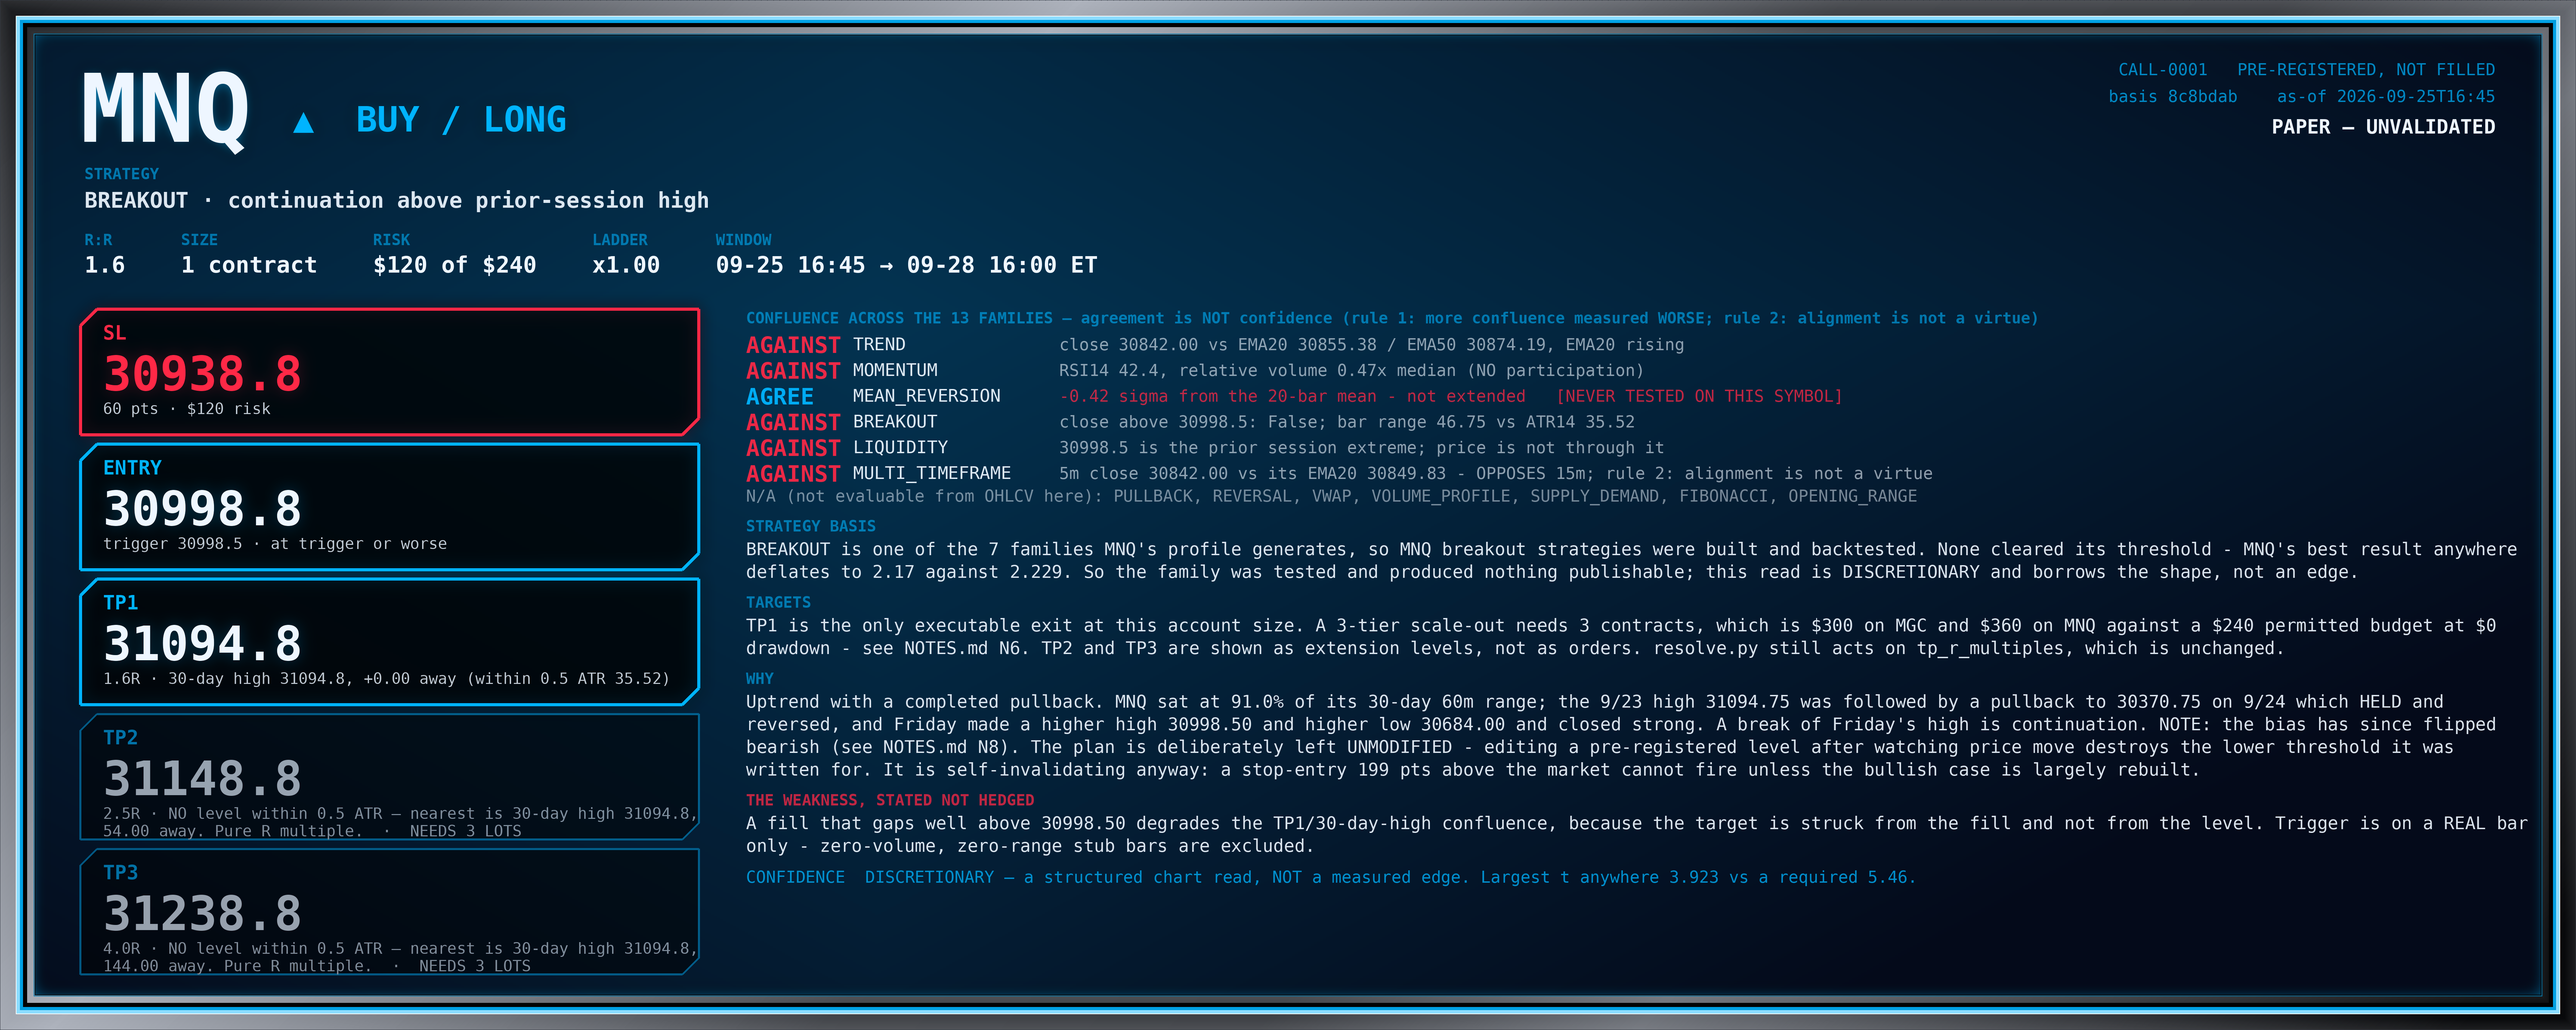
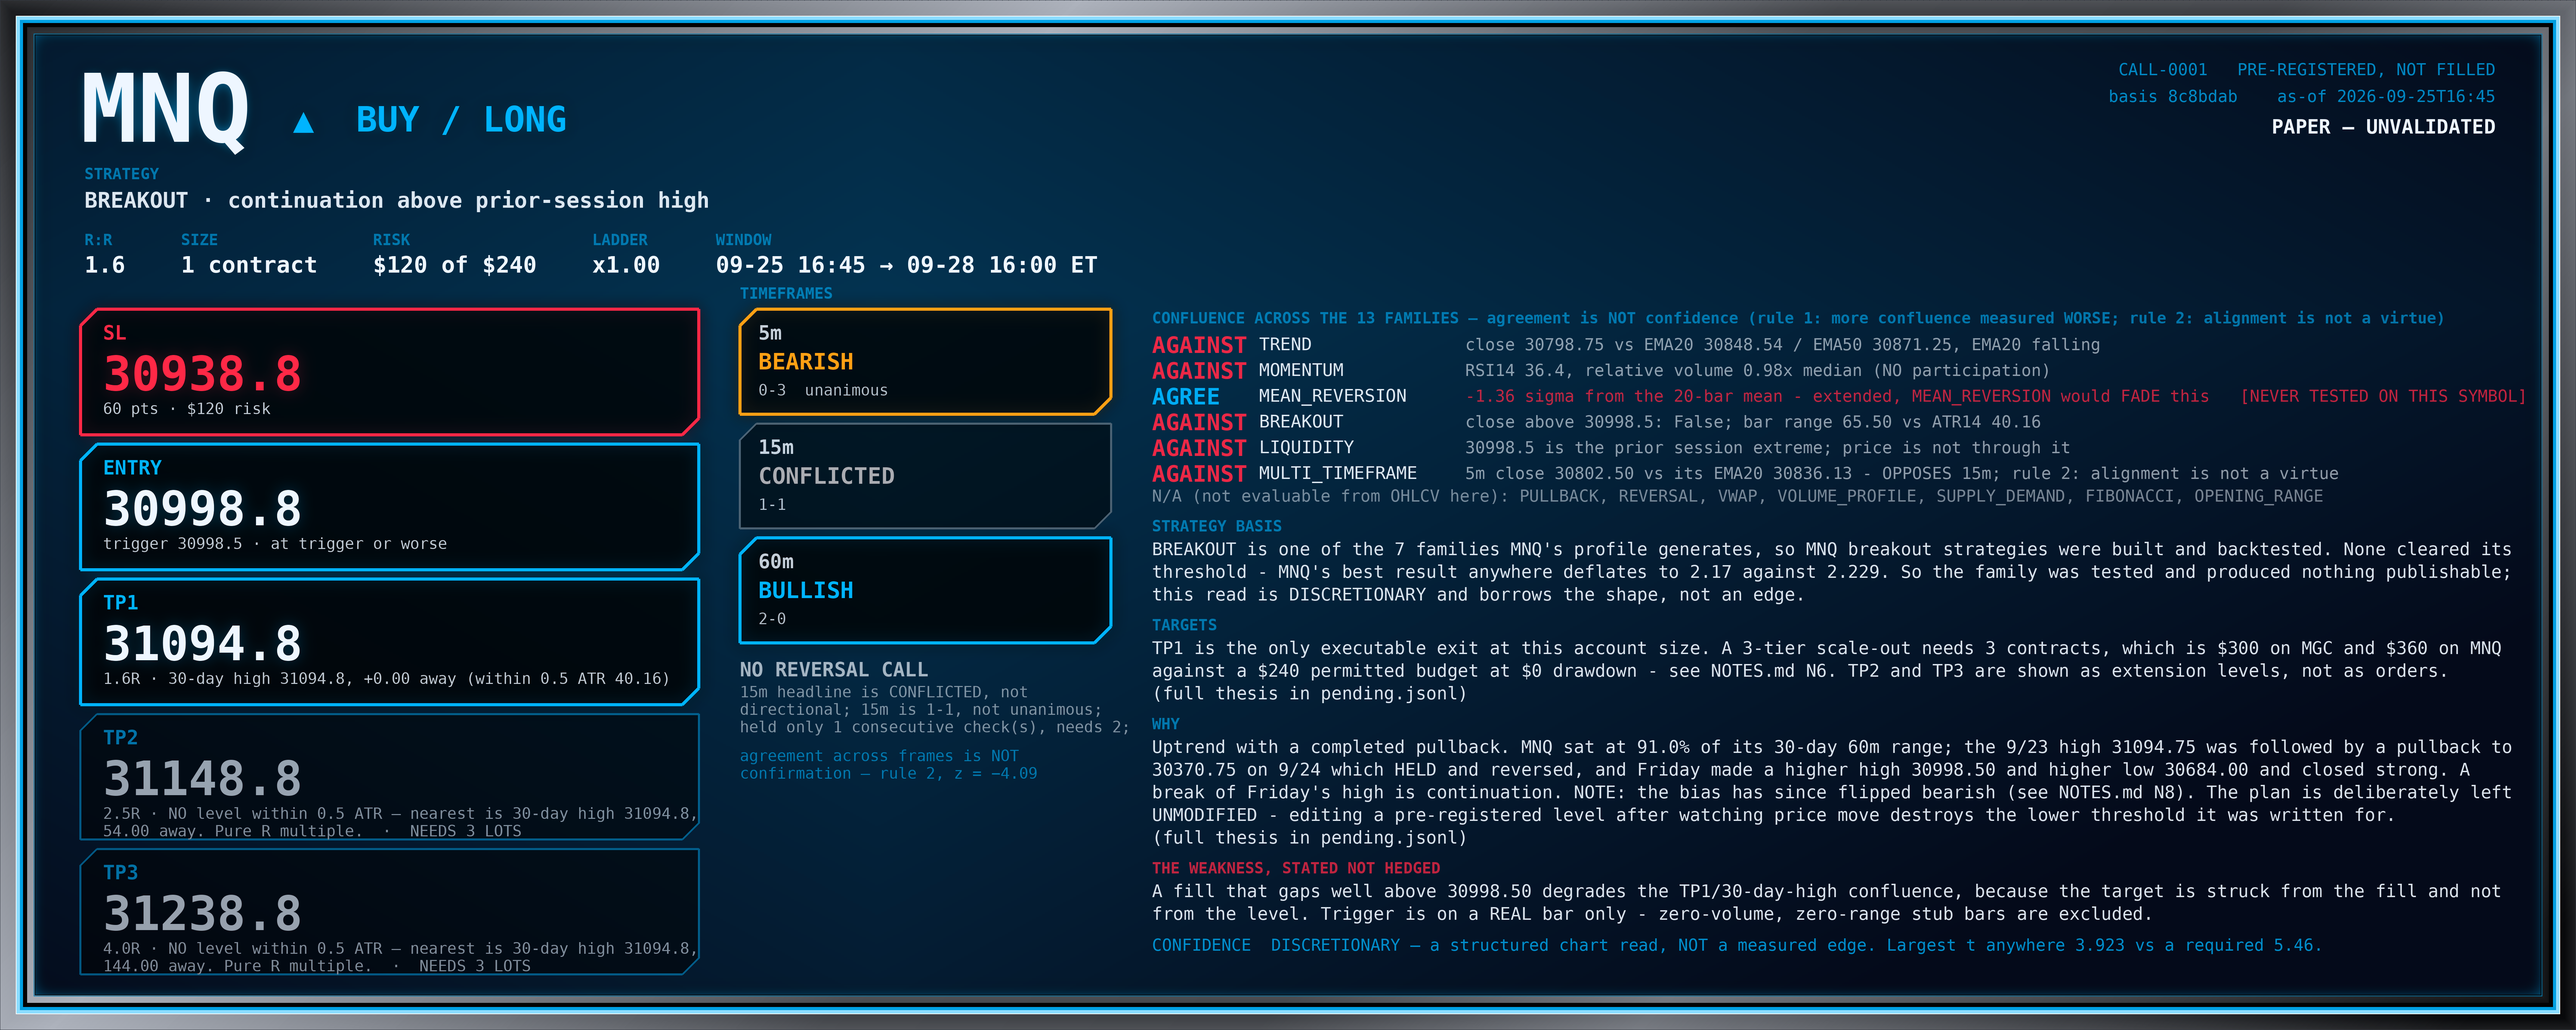
CALL desk: per-timeframe bias column, and a reversal call with a real threshold
Owner asked for timeframes on the card and for reversals to be called out.
Both done, with the second given a bar high enough to survive this tape.

The card now carries a TIMEFRAMES column immediately right of the price ladder:
5m, 15m and 60m, each BULLISH or BEARISH in the direction colour with its
component tally, CONFLICTED dimmed. MNQ currently shows the frames genuinely
disagreeing - 5m bearish unanimous, 15m conflicted, 60m bullish - which is the
kind of thing a single-frame panel hides.

A headline flip is NOT a reversal, and tonight is the evidence: MNQ's 15m
headline flipped seven times in three hours on about 90 points of net movement,
and MGC's structure component reverted twice inside ten minutes, once because
the swing PAIR being compared slid out of the window rather than because price
moved. Calling a reversal on each flip would have called seven and been wrong at
least six times.

So regime.reversal() requires all four of: the 15m headline changed sign versus
the last differing headline; it is unanimous, since a 1-0 majority is one
component crossing a threshold; it has held two consecutive checks; and at least
one other timeframe agrees. It currently calls nothing on either symbol and
prints exactly which conditions failed - a refused call with its reasons is
information, a silent one is not.

Condition 4 is a guard, not a confirmation. Rule 2 measured REQUIRING alignment
as detectably worse than requiring none at z = -4.09, so a second frame agreeing
[…]

Changed region(s): [[0.2808, 0.279, 0.9672, 0.93], [0.8736, 0.372, 0.9672, 0.403]]

diff --git a/workspace/paper/CALL/regime.py b/workspace/paper/CALL/regime.py
@@ -1,0 +1,138 @@
+#!/usr/bin/env python3
+"""Per-timeframe bias, and a reversal call that survives this tape's noise.
+
+Owned by agent CALL.
+
+WHY A BARE HEADLINE FLIP IS NOT A REVERSAL. On the Sunday 2026-09-27 reopen, MNQ's 15m
+headline flipped SEVEN times in three hours on about 90 points of net movement, and MGC's
+structure component reverted twice inside ten minutes - once because the swing PAIR being
+compared slid out of the window, not because price moved (NOTES.md N9). A desk that called
+a reversal on every flip would have called seven, and been wrong at least six times.
+
+So `reversal()` requires four things at once, and reports the ones that are missing rather
+than averaging them away:
+
+  1. the 15m headline has actually CHANGED SIGN versus the last call,
+  2. it is UNANIMOUS (3-0 or 0-3) - a 1-0 majority is one component crossing a threshold,
+  3. it has HELD for at least two consecutive checks, measured from `bias_history.jsonl`,
+  4. at least one OTHER timeframe agrees with the new sign.
+
+AND ON MULTI-TIMEFRAME AGREEMENT, THE STANDING CAVEAT. `BRIEF.md` rule 2 measured that
+*requiring* alignment was detectably WORSE than requiring none, z = -4.09. Condition 4 is
+therefore a check against a single-frame artefact, **not** a confirmation that raises
+confidence, and the panel says so. `D50` also aliases every request >= 1440, so nothing
+here reads a daily frame.
+"""
+from __future__ import annotations
+
+import importlib.util
+import json
+import pathlib
+from datetime import datetime, timezone
+
+HERE = pathlib.Path(__file__).resolve().parent
+HIST = HERE / "bias_history.jsonl"
+
+_cs = importlib.util.spec_from_file_location("_ch", HERE / "chart.py")
+_ch = importlib.util.module_from_spec(_cs)
+_cs.loader.exec_module(_ch)
+
+FRAMES = (5, 15, 60)
+
+
+def timeframe_bias(symbol: str, frames=FRAMES, n: int = 40) -> list[dict]:
+    """Bias per timeframe, from the same three components `chart.py` prints."""
+    out = []
+    for f in frames:
+        bars = _ch.load(symbol, f)
+        if len(bars) < 25:
+            out.append({"frame": f, "headline": "NO DATA", "bull": 0, "bear": 0,
+                        "unanimous": False, "bars": len(bars)})
+            continue
+        b = _ch.bias(bars[-n:])
+        out.append({"frame": f, "headline": b["headline"], "bull": b["bull"],
+                    "bear": b["bear"], "unanimous": b["unanimous"], "bars": len(bars)})
+    return out
+
+
+def record(symbol: str, tfs: list[dict]) -> None:
+    """Append this check's per-frame reading. Persistence cannot be judged without it."""
+    with HIST.open("a") as fh:
+        fh.write(json.dumps({
+            "ts": datetime.now(timezone.utc).replace(microsecond=0).isoformat(),
+            "symbol": symbol,
+            "frames": {str(t["frame"]): t["headline"] for t in tfs}}) + "\n")
+
+
+def _history(symbol: str, frame: int = 15) -> list[str]:
+    if not HIST.exists():
+        return []
+    out = []
+    for line in HIST.read_text().splitlines():
+        if not line.strip():
+            continue
+        r = json.loads(line)
+        if r["symbol"] == symbol:
+            h = r["frames"].get(str(frame))
+            if h:
+                out.append(h)
+    return out
+
+
+def reversal(symbol: str, tfs: list[dict]) -> dict:
+    """Call a reversal only when all four conditions hold. Report which ones did not."""
+    cur = next((t for t in tfs if t["frame"] == 15), None)
+    if cur is None or cur["headline"] == "NO DATA":
+        return {"called": False, "reasons": ["no 15m data"]}
+    hist = _history(symbol, 15)
+    head = cur["headline"]
+    fails = []
+
+    if head == "CONFLICTED":
+        fails.append("15m headline is CONFLICTED, not directional")
+    if not cur["unanimous"]:
+        fails.append(f"15m is {cur['bull']}-{cur['bear']}, not unanimous")
+    # held for at least two consecutive checks
+    held = 0
+    for h in reversed(hist):
+        if h == head:
+            held += 1
+        else:
+            break
+    if held < 2:
+        fails.append(f"held only {held} consecutive check(s), needs 2")
+    # changed sign versus the last DIFFERENT headline
+    prior = next((h for h in reversed(hist) if h != head), None)
+    if prior is None:
+        fails.append("no prior differing headline to reverse from")
+    elif prior == "CONFLICTED":
+        fails.append("prior headline was CONFLICTED, so this is a resolution, not a reversal")
+    # another timeframe agrees
+    others = [t for t in tfs if t["frame"] != 15 and t["headline"] == head]
+    if not others:
+        fails.append("no other timeframe agrees")
+
+    return {"called": not fails, "headline": head, "held": held, "prior": prior,
+            "agreeing_frames": [t["frame"] for t in others], "reasons": fails}
+
+
+def main() -> int:
+    import sys
+    for sym in (sys.argv[1:] or ["MGC", "MNQ"]):
+        tfs = timeframe_bias(sym)
+        record(sym, tfs)
+        rv = reversal(sym, tfs)
+        print(f"\n{sym}")
+        for t in tfs:
+            print(f"   {t['frame']:>4}m  {t['headline']:<11} {t['bull']}-{t['bear']}"
+                  f"{'  unanimous' if t['unanimous'] else ''}")
+        if rv["called"]:
+            print(f"   >>> REVERSAL CALLED: {rv['headline']} (was {rv['prior']}), "
+                  f"held {rv['held']} checks, agreeing frames {rv['agreeing_frames']}")
+        else:
+            print(f"   no reversal call - {'; '.join(rv['reasons'])}")
+    return 0
+
+
+if __name__ == "__main__":
+    raise SystemExit(main())

diff --git a/workspace/paper/CALL/card_png.py b/workspace/paper/CALL/card_png.py
@@ -378,8 +378,49 @@ def render(plan: dict, out: pathlib.Path) -> pathlib.Path:
                    fill=(*WHITE, 205) if ok else (*WHITE, 135))
         cy += ph + gap
 
+    # ---- timeframe column, immediately right of the price ladder
+    try:
+        import importlib.util as _iu2
+        _rs2 = _iu2.spec_from_file_location("_rg", HERE / "regime.py")
+        _rg = _iu2.module_from_spec(_rs2)
+        _rs2.loader.exec_module(_rg)
+        tfs = _rg.timeframe_bias(plan["symbol"])
+        rev = _rg.reversal(plan["symbol"], tfs)
+    except Exception:
+        tfs, rev = [], {"called": False, "reasons": []}
+
+    tx, tw2 = PAD + cw + sc(40), sc(360)
+    if tfs:
+        d.text((tx, sc(276)), "TIMEFRAMES", font=fkl, fill=(*las, 150))
+        ty = sc(300)
+        HUE = {"BULLISH": LASER["LONG"], "BEARISH": LASER["SHORT"]}
+        for t in tfs:
+            hue = HUE.get(t["headline"], (170, 172, 178))
+            panel(d, (tx, ty, tx + tw2, ty + sc(102)), hue,
+                  dim=t["headline"] == "CONFLICTED")
+            if t["headline"] in HUE:
+                panel(gd, (tx, ty, tx + tw2, ty + sc(102)), hue)
+            d.text((tx + sc(18), ty + sc(12)), f"{t['frame']}m", font=flab,
+                   fill=(*WHITE, 210))
+            d.text((tx + sc(18), ty + sc(38)), t["headline"], font=fkv, fill=hue)
+            tail = f"{t['bull']}-{t['bear']}" + ("  unanimous" if t["unanimous"] else "")
+            d.text((tx + sc(18), ty + sc(70)), tail, font=fsub, fill=(*WHITE, 190))
+            ty += sc(102) + sc(9)
+        # the reversal verdict, and rule 2's caveat, sit under the column
+        if rev.get("called"):
+            d.text((tx, ty + sc(6)), f"REVERSAL CALLED → {rev['headline']}", font=flab,
+                   fill=HUE.get(rev["headline"], WHITE))
+            d.text((tx, ty + sc(30)), f"was {rev.get('prior')}, held {rev.get('held')} checks",
+                   font=fsub, fill=(*WHITE, 190))
+        else:
+            d.text((tx, ty + sc(6)), "NO REVERSAL CALL", font=flab, fill=(*WHITE, 175))
+            for i, ln in enumerate(textwrap.wrap("; ".join(rev.get("reasons", []))[:150], 42)[:3]):
+                d.text((tx, ty + sc(30) + i * sc(17)), ln, font=fsub, fill=(*WHITE, 135))
+        d.text((tx, ty + sc(92)), "agreement across frames is NOT", font=fsub, fill=(*las, 150))
+        d.text((tx, ty + sc(109)), "confirmation — rule 2, z = −4.09", font=fsub, fill=(*las, 150))
+
     # ---- right column: confluence, then the reasoning
-    rx = PAD + cw + sc(46)
+    rx = tx + tw2 + sc(40)
     rw = int((W - rx - PAD) / sc(10))   # CHARACTERS, not pixels
     by = sc(300)
     crows = []

diff --git a/workspace/paper/CALL/CHECK_PROCEDURE.md b/workspace/paper/CALL/CHECK_PROCEDURE.md
@@ -390,6 +390,38 @@ alongside `PAPER — UNVALIDATED`, so the colour states the direction and the te
 Do not downgrade a directional plan to grey merely because it has not triggered — grey means
 **NO TRADE**, and using it for a live short would say the opposite of what is meant.
 
+## Per-timeframe bias, and when a reversal may be CALLED
+
+```
+python3 workspace/paper/CALL/regime.py MGC MNQ
+```
+
+Run it every check. It records each frame's headline to `bias_history.jsonl` — **persistence
+cannot be judged without that file**, so the recording is not optional.
+
+**A headline flip is NOT a reversal.** On the 2026-09-27 reopen, MNQ's 15m headline flipped
+**seven times in three hours** on ~90 points of net movement, and MGC's structure component
+reverted twice inside ten minutes — once because the swing *pair* being compared slid out of the
+window, not because price moved (N9). A desk calling a reversal on each flip would have called
+seven and been wrong at least six times.
+
+`reversal()` therefore requires **all four** of:
+
+1. the 15m headline has **changed sign** versus the last differing headline;
+2. it is **unanimous** (3-0 or 0-3) — a 1-0 majority is one component crossing a threshold;
+3. it has **held two consecutive checks**;
+4. **at least one other timeframe agrees** with the new sign.
+
+When they all hold, say so plainly and render the direction through `alerts.alert` so it carries
+its colour. When they do not, the card and the report say **NO REVERSAL CALL** and name the
+conditions that failed — a refused call with its reasons is information; a silent one is not.
+
+**Condition 4 is a guard, not a confirmation.** `BRIEF.md` rule 2 measured *requiring* alignment
+as detectably **worse** than requiring none, z = −4.09. A second frame agreeing only rules out a
+single-frame artefact; it does not raise confidence, and the card prints that caveat under the
+column. Nothing here reads a daily frame, because `D50` aliases every request ≥ 1440 into a
+lagged copy of the same series.
+
 ## The one-line report
 
 When nothing changed, the whole report is one line, in this shape:
